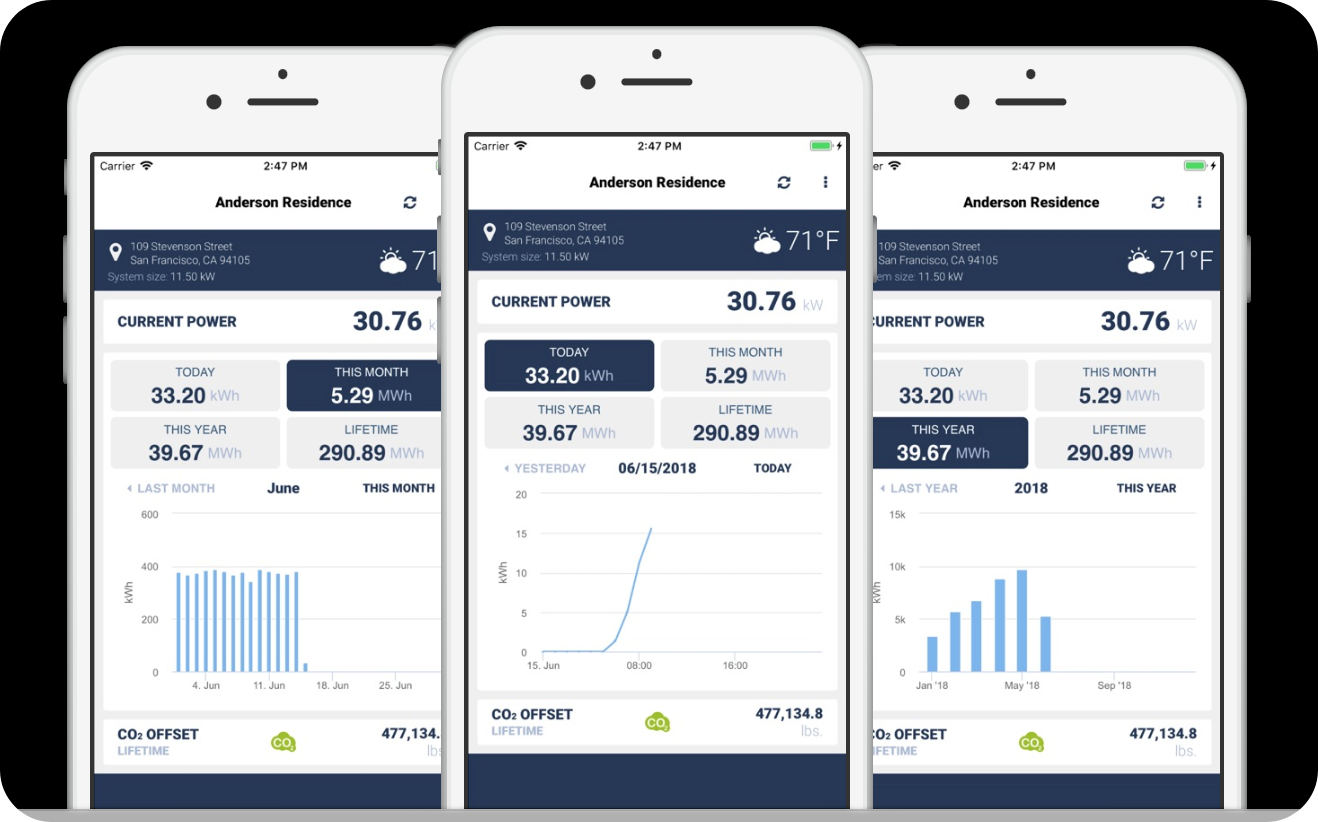
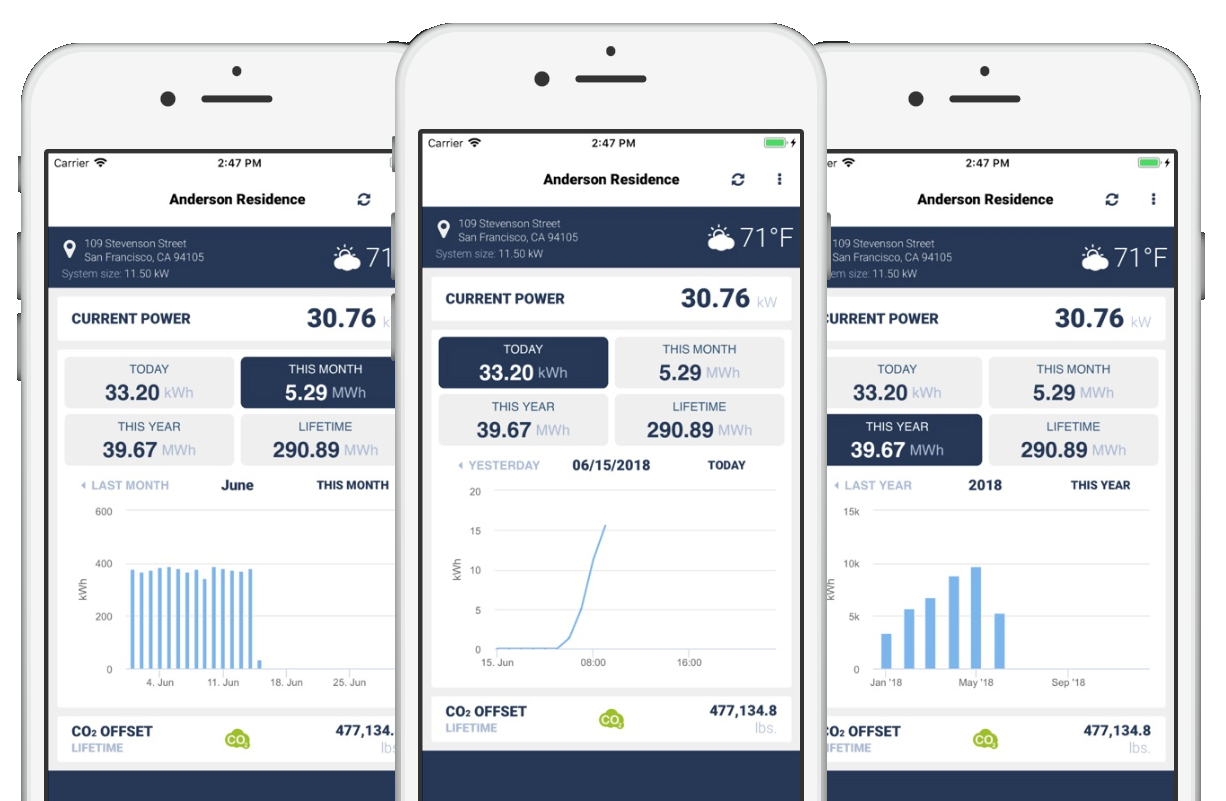
Experience: white background on LocusNOC App image; Apple Store caption

diff --git a/content/experience.ts b/content/experience.ts
@@ -361,7 +361,7 @@ export const timeline: TimelineEntry[] = [
         kind: 'image',
         src: '/assets/experience/apple-store-paramus.jpg',
         alt: 'Apple Store storefront in a mall',
-        caption: 'Apple Store',
+        caption: 'Apple Store - Garden State Plaza',
         bleed: true,
       },
     ],
